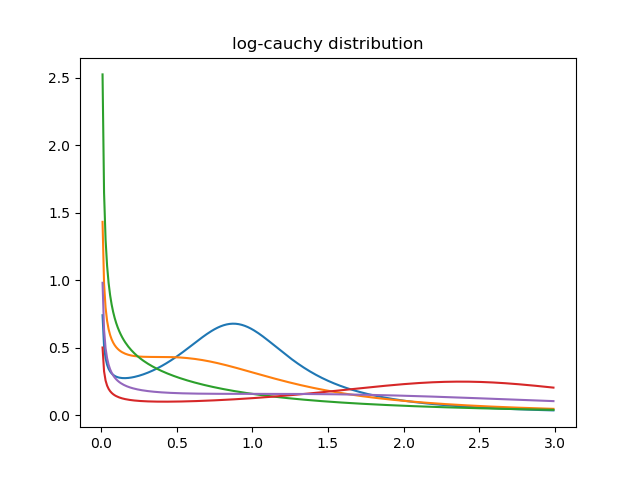
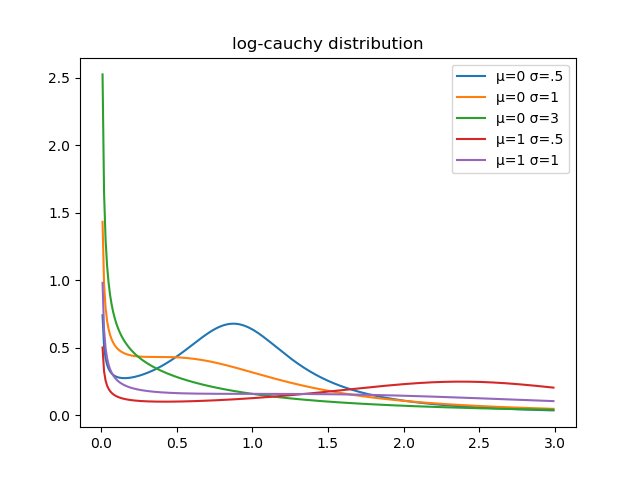
add mb, logs, and gen normal

Changed region(s): [[0.7188, 0.125, 0.875, 0.25], [0.7188, 0.2812, 0.875, 0.3438]]

diff --git a/distributions.py b/distributions.py
@@ -8,10 +8,11 @@ from scipy.special import logit
 # 'distribution' functions map the pdf of a numpy range for their respective ranges
 # distribitions so far - gamma, beta, erlang, exponential, chi-squared, f, normal (apprx), laplace, rayleigh, gumbel, fréchet, weibull
 # pareto, levy, cauchy, chi, kumaraswamy, nakagami, lomax, burr, beta prime, logit-normal, exponential-logarithmic
-# gompertz, inverse-gamma, inverse-chi-squared,
+# gompertz, inverse-gamma, inverse-chi-squared, log-cauchy, log-logistic, log-normal, maxwell-boltzmann
+# generalized normal distribution
 # to fix - t
-# to add - laplace from exp, dirichlet, negative binomial, zeta, 
-# rice,
+# to add - laplace from exp, dirichlet, negative binomial, zeta, log-cauchy from cauchy
+# rice, q-exponential distribution
 
 # gamma function
 def gamma_function(k):
@@ -310,7 +311,28 @@ def logit_normal_distribution(x, sigma, mu):
     exponent = ((logit(x) - mu) ** 2) / (2 * sigma ** 2)
     return coef_1 * random_var_1 * np.exp(-exponent)
 
+def generalized_normal_distribution(x, mu, alpha, beta):
+    '''
+    three parameters - location, scale, shape
+    x value is a random variable to pass in
+    params
+    ------
+    x : float
+        random variable
+    mu : float
+        squared scale parameter for generalized normal distribution
+    alpha : float (positive)
+        location parameter for generalized normal distribution
+    beta : float (positive)
+        location parameter for generalized normal distribution
 
+    returns
+    -------
+    value in generalized normal distr for random variable : float
+    '''
+    coef = beta / (2 * alpha * integral_gamma_function(1/beta))
+    exponent = (np.abs(x - mu) / alpha) ** beta
+    return coef * np.exp(- exponent)
 
 # sampling for the t-distribution
 # pdf uses gamma function... add integral version
@@ -535,8 +557,6 @@ def inverse_chi_squared_distribution(x, v, beta=.5):
     '''
     return inverse_gamma_distribution(x, (v/2), beta) 
 
-
-
 def levy_distribution(x, mu, c):
     '''
     two parameters _ location, scale
@@ -741,6 +761,82 @@ def log_cauchy_distribution_from_cauchy(x, mu, sigma):
     value in log-cauchy distr for random variable : float
     '''
     return np.exp(cauchy_distribution(x, mu, sigma))
+
+def log_logistic_distribution(x,alpha, beta):
+    '''
+    two parameters -  scale mu, shape omega,
+    x value is a random variable to pass in
+    params
+    ------
+    x : float
+        random variable
+    alpha : float 
+        scale paramter in  log-logistic distribution
+    beta : float (positive)
+        shape parameter in log-logistic distribution
+
+    returns
+    -------
+    value in log-logistic distr for random variable : float
+    '''
+    num = (beta / alpha) * ((x / alpha) ** (beta - 1))
+    den = (1 + ((x / alpha)** beta) ) ** 2
+    return num / den
+
+def log_normal_distribution(x, mu, sigma):
+    '''
+    two parameters -  shape mu, scale sigma,
+    x value is a random variable to pass in
+    params
+    ------
+    x : float
+        random variable
+    mu : float 
+        shape paramter in  log-normal distribution
+    sigma : float (positive)
+        scale parameter in log-normal distribution
+
+    returns
+    -------
+    value in log-normal distr for random variable : float
+    '''
+    exponent = (((np.log(x)) - mu) ** 2 ) / (2 *sigma ** 2)
+    coef = 1 / (x * sigma * ( (sigma * np.pi) ** .5 ))
+    return coef * np.exp(- exponent)
+
+def maxwell_boltzmann_distribution(x, a):
+    '''
+    one parameter - scale
+    x value is a random variable to pass in
+    params
+    ------
+    x : float
+        random variable
+    a : float 
+        scale paramter in  maxwell-boltzmann distribution
+    
+    returns
+    -------
+    value in maxwell-boltzmann distr for random variable : float
+    '''
+    coef = (2 / np.pi) ** .5
+    exponent = (- (x ** 2)) / (2 * a ** 2)
+    return coef * ( ((x **2) * np.exp(exponent) ) / a ** 3)
+
+def q_exponential_distribution(x, q, lambda_):
+    '''
+    '''
+    pass
+
+def q_gaussian_distribution(x, q, beta):
+    '''
+    '''
+    pass
+
+def q_weibull_distribution(x, q, lambda_, k):
+    '''
+    '''
+    pass
 
 # revisit beta
 # def beta_from_gamma(x, k_1, theta_1, k_2, theta_2):

diff --git a/viz/visuals.py b/viz/visuals.py
@@ -251,12 +251,46 @@ f_color = 'red'
 # plt.legend(['ν=1', 'ν=2', 'ν=3', 'ν=4', 'ν=5', 'ν=6'], loc='upper right')
 
 # log-cauchy
-plt.title('log-cauchy distribution')
-plt.plot(ds.x_log_cauchy_values, ds.y_log_cauchy_values_0_half)
-plt.plot(ds.x_log_cauchy_values, ds.y_log_cauchy_values_0_1)
-plt.plot(ds.x_log_cauchy_values, ds.y_log_cauchy_values_0_2)
-plt.plot(ds.x_log_cauchy_values, ds.y_log_cauchy_values_1_half)
-plt.plot(ds.x_log_cauchy_values, ds.y_log_cauchy_values_1_1)
+# plt.title('log-cauchy distribution')
+# plt.plot(ds.x_log_cauchy_values, ds.y_log_cauchy_values_0_half)
+# plt.plot(ds.x_log_cauchy_values, ds.y_log_cauchy_values_0_1)
+# plt.plot(ds.x_log_cauchy_values, ds.y_log_cauchy_values_0_2)
+# plt.plot(ds.x_log_cauchy_values, ds.y_log_cauchy_values_1_half)
+# plt.plot(ds.x_log_cauchy_values, ds.y_log_cauchy_values_1_1)
+# plt.legend(['μ=0 σ=.5', 'μ=0 σ=1', 'μ=0 σ=3', 'μ=1 σ=.5', 'μ=1 σ=1'], loc='upper right')
+
+
+# log-logistic
+# plt.title('log-logistic distribution')
+# plt.plot(ds.x_log_logistic_values, ds.y_log_logistic_values_1_half)
+# plt.plot(ds.x_log_logistic_values, ds.y_log_logistic_values_1_1)
+# plt.plot(ds.x_log_logistic_values, ds.y_log_logistic_values_1_2)
+# plt.plot(ds.x_log_logistic_values, ds.y_log_logistic_values_1_4)
+# plt.plot(ds.x_log_logistic_values, ds.y_log_logistic_values_1_8)
+# plt.legend(['alpha=1 β=.5', 'alpha=1 β=1', 'alpha=1 β=2','alpha=1 β=4', 'alpha=1 β=8'], loc='upper right')
+
+# log-normal
+# plt.title('log-normal distribution')
+# plt.plot(ds.x_log_normal_values, ds.y_log_normal_values_0_quarter)
+# plt.plot(ds.x_log_normal_values, ds.y_log_normal_values_0_half)
+# plt.plot(ds.x_log_normal_values, ds.y_log_normal_values_0_1)
+# plt.legend(['μ=0 σ=.25', 'μ=0 σ=.5', 'μ=0 σ=1'], loc='upper right')
+
+# maxwell-boltzmann
+# plt.title('maxwell-boltzmann distribution')
+# plt.plot(ds.x_maxwell_boltzmann_values, ds.y_maxwell_boltzmann_values_1)
+# plt.plot(ds.x_maxwell_boltzmann_values, ds.y_maxwell_boltzmann_values_2)
+# plt.plot(ds.x_maxwell_boltzmann_values, ds.y_maxwell_boltzmann_values_5)
+# plt.legend(['a=1', 'a=2', 'a=5'], loc='upper right')
+
+# generalized normal
+plt.title('generalized normal distribution')
+plt.plot(ds.x_generalized_normal_values, ds.y_generalized_normal_values_0_1_half)
+plt.plot(ds.x_generalized_normal_values, ds.y_generalized_normal_values_0_1_1)
+plt.plot(ds.x_generalized_normal_values, ds.y_generalized_normal_values_0_1_1_half)
+plt.plot(ds.x_generalized_normal_values, ds.y_generalized_normal_values_0_1_3)
+plt.plot(ds.x_generalized_normal_values, ds.y_generalized_normal_values_0_1_8)
+plt.legend(['μ=0 alpha=1 β=.5', 'μ=0 alpha=1 β=1', 'μ=0 alpha=1 β=1.5','μ=0 alpha=1 β=3', 'μ=0 alpha=1 β=8'], loc='upper right')
 
 
 # plot for exp, erlang, chi, beta

diff --git a/make_data.py b/make_data.py
@@ -328,6 +328,37 @@ y_log_cauchy_values_0_2 = ds.log_cauchy_distribution(x_log_cauchy_values, 0, 2)
 y_log_cauchy_values_1_half = ds.log_cauchy_distribution(x_log_cauchy_values, 1, .5)
 y_log_cauchy_values_1_1 = ds.log_cauchy_distribution(x_log_cauchy_values, 1, 1)
 
+# log-logistic
+x_log_logistic_values = np.arange(0, 3, .01)[1:]
+
+y_log_logistic_values_1_half = ds.log_logistic_distribution(x_log_logistic_values, 1, .5)
+y_log_logistic_values_1_1 = ds.log_logistic_distribution(x_log_logistic_values, 1, 1)
+y_log_logistic_values_1_2 = ds.log_logistic_distribution(x_log_logistic_values, 1, 2)
+y_log_logistic_values_1_4 = ds.log_logistic_distribution(x_log_logistic_values, 1, 4)
+y_log_logistic_values_1_8 = ds.log_logistic_distribution(x_log_logistic_values, 1, 8)
+
+# log-normal
+x_log_normal_values = np.arange(0, 3, .01)[1:]
+
+y_log_normal_values_0_quarter = ds.log_normal_distribution(x_log_normal_values, 0, .25)
+y_log_normal_values_0_half = ds.log_normal_distribution(x_log_normal_values, 0, .5)
+y_log_normal_values_0_1 = ds.log_normal_distribution(x_log_normal_values, 0, 1)
+
+# maxwell-boltzmann
+x_maxwell_boltzmann_values = np.arange(0, 20, .05)[1:]
+
+y_maxwell_boltzmann_values_1 = ds.maxwell_boltzmann_distribution(x_maxwell_boltzmann_values, 1)
+y_maxwell_boltzmann_values_2 = ds.maxwell_boltzmann_distribution(x_maxwell_boltzmann_values, 2)
+y_maxwell_boltzmann_values_5 = ds.maxwell_boltzmann_distribution(x_maxwell_boltzmann_values, 5)
+
+# generalized normal
+x_generalized_normal_values = np.arange(-3, 3, .01)[:]
+
+y_generalized_normal_values_0_1_half = ds.generalized_normal_distribution(x_generalized_normal_values, 0, 1, .5)
+y_generalized_normal_values_0_1_1 = ds.generalized_normal_distribution(x_generalized_normal_values, 0, 1, 1)
+y_generalized_normal_values_0_1_1_half = ds.generalized_normal_distribution(x_generalized_normal_values, 0, 1, 1.5)
+y_generalized_normal_values_0_1_3 = ds.generalized_normal_distribution(x_generalized_normal_values, 0, 1, 3)
+y_generalized_normal_values_0_1_8 = ds.generalized_normal_distribution(x_generalized_normal_values, 0, 1, 8)
 
 # for now the normal distribution is approximated using the central limit theorem
 

diff --git a/README.md b/README.md
@@ -9,7 +9,7 @@ typos are normally distributed, so if you see one please let me know.
 ## Continuous Distributions
 the starting point is the gamma in theory and code in `distributions.py`, due to the point of reference the gamma serves for other distributions.
 
-the graphing code can be found in the viz directory, all graphs are of the probability density function for the given distribution over a subset of their support, normally [0, 20),[0,1], or [0,5].
+the graphing code can be found in the viz directory, all graphs are of the probability density function for the given distribution over a subset of their support, normally `[0, 20)`,`[0,1]`, or `[0,5]`.
 
 ### normal distribution
 two parameters
@@ -291,6 +291,21 @@ arises from sampling, estimate the mean of a normally distributed population
 - sample size is small
 - population standard deviation is unknown
 
+### generalized normal distribution
+three parameters
+- location (`μ`)
+- scale (`𝛼>0`)
+- shape (`β>0`)
+
+support : `(-∞,∞)`
+
+also called the exponential power distribution ot generalized error distribution
+
+**in relation to gamma** built with the gamma function
+
+when `β=2` its the normal distribution, and when `β=1` its the laplce distribution
+
+<img src="./imgs/generalized_normal_distribution.png" height="300px" width="400px">
 
 
 ### cauchy distribution (Pearson type IV)
@@ -548,6 +563,43 @@ support : `(0,∞)`
 
 <img src="./imgs/log_cauchy_distribution.png" height="300px" width="400px">
 
+### log-logistic distribution
+two parameters
+- scale (`𝛼>0`)
+- shape (`β>0`)
+
+support : `[0,∞)`
+
+**in relation to gamma** log-logistic is a specific case of the beta prime distribution
+
+when the shape=1 if log-logistic, it is a generalized pareto distribution
+
+<img src="./imgs/log_logistic_distribution.png" height="300px" width="400px">
+
+### log-normal distribution
+two parameters
+- location (`μ`)
+- scale (`σ`)
+
+support : `(0,∞)`
+
+**in relation to gamma** ^ μ + σ* standard normal distribution
+
+<img src="./imgs/log_normal_distribution.png" height="300px" width="400px">
+
+### maxwell-boltzmann distribution
+one parameter
+- scale (`a>0`)
+
+support : `(0,∞)`
+
+the scale parameter is speed proportional to the ratio of temperature to particle mass.
+
+**in relation to gamma** is a chi-squared(3) with a scale parameter, the 3 degrees of freedom are the components of the velocity vector
+
+
+<img src="./imgs/maxwell_boltzmann_distribution.png" height="300px" width="400px">
+
 ## Discrete Distributions
 starting with the negative binomial distribution, due to relationship with gamma
 
@@ -621,33 +673,7 @@ uniform sum distribution
 **in relation to gamma**
 sum of uniform(0,1) distributions
 
-### log-logistic distribution
-two parameters
-- scale (`𝛼>0`)
-- shape (`β>0`)
 
-support : `[0,∞)`
-
-**in relation to gamma** log-logistic is a specific case of the beta prime distribution
-
-### log-normal distribution
-two parameters
-- location (`μ`)
-- scale (`σ`)
-
-support : `(0,∞)`
-
-**in relation to gamma** ^ μ + σ* standard normal distribution
-
-
-
-### maxwell-boltzmann distribution
-one parameter
-- scale (`a>0`)
-
-support : `(0,∞)`
-
-**in relation to gamma** is a chi-squared(3) with a scale parameter
 
 ### noncentral chi-squared distribution
 two paramters
@@ -658,19 +684,12 @@ support : `[0,∞)`
 
 in case of likelihood-ratio tests
 
+pdf uses the bessel function
+
 **in relation to gamma** linear combo of noncentral chi-squared distributions make a generalized chi-squared distribution
 
 square root of a noncentral chi-squared distribution is a rice distribution
 
-### generalized normal distribution
-three parameters
-- location (`μ`)
-- scale (`𝛼>0`)
-- shape (`β>0`)
-
-support : `(-∞,∞)`
-
-**in relation to gamma** built with the gamma function
 
 ### fisher's z-distribution
 two parameters
@@ -683,14 +702,6 @@ for more stats testing
 
 **in relation to gamma** half the log of an f-distribution
 
-### holtsmark distribution
-two parameters
- - scale (`c` from `(0,∞)`)
- - location (`μ`)
-
-support : real numbers
-
-special case of a stable distribution(beta=0, and alpha=3/2), where PDF can be made with the hypergeometric function
 
 
 ### noncentral t-distribution
@@ -739,6 +750,8 @@ this is a tsallis distribution
 
 **in relation to gamma** q-exponential distribution is a generalized lomax distribution
 
+q-exponential distribution is a special case of the generalized pareto distribution
+
 ### q-gaussian distribution
 two parameters
 - shape (`q<3`)
@@ -772,6 +785,16 @@ gamma distribution generalization to multiple dimensions
 two independent wishart distributions
 
 for multivariate hypothesis testing
+
+### holtsmark distribution
+two parameters
+ - scale (`c` from `(0,∞)`)
+ - location (`μ`)
+
+support : real numbers
+
+special case of a stable distribution(beta=0, and alpha=3/2), where PDF can be made with the hypergeometric function
+
 
 ### dagum distribution
 
